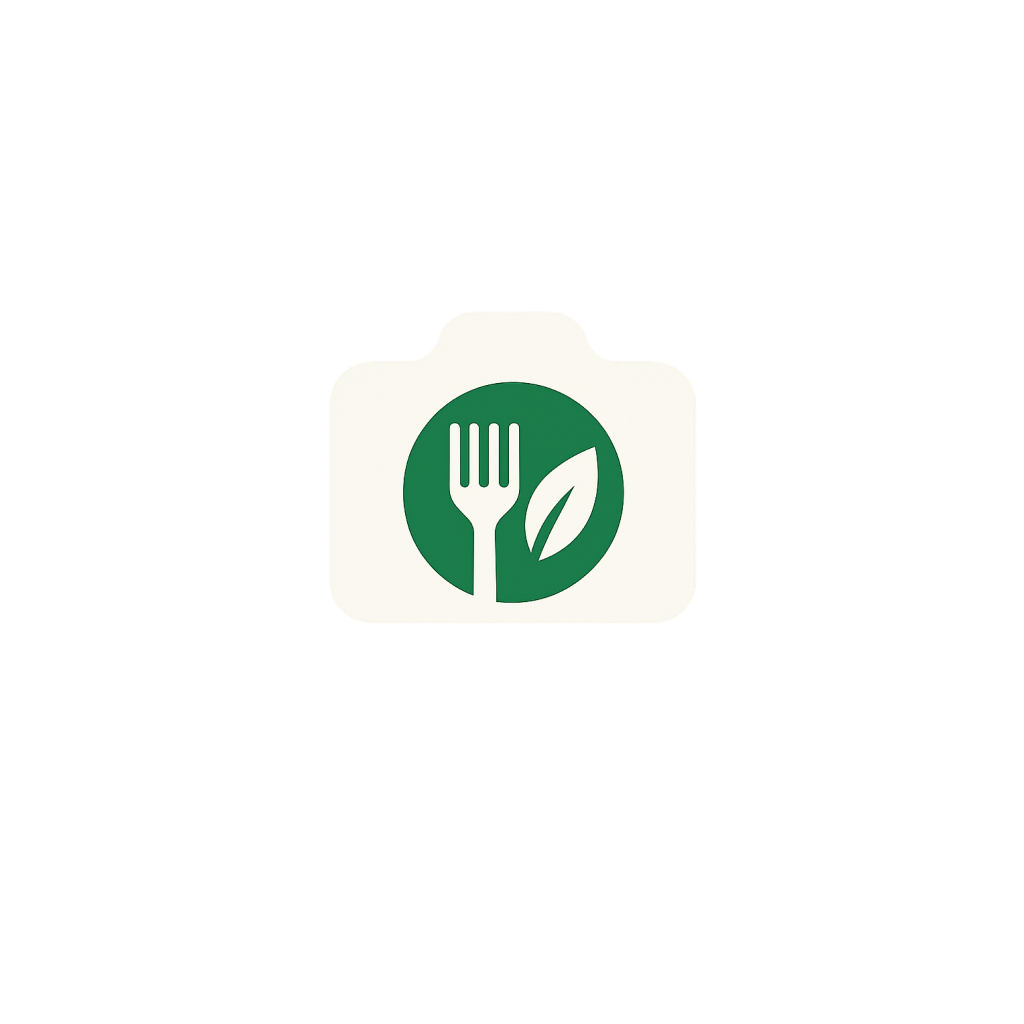
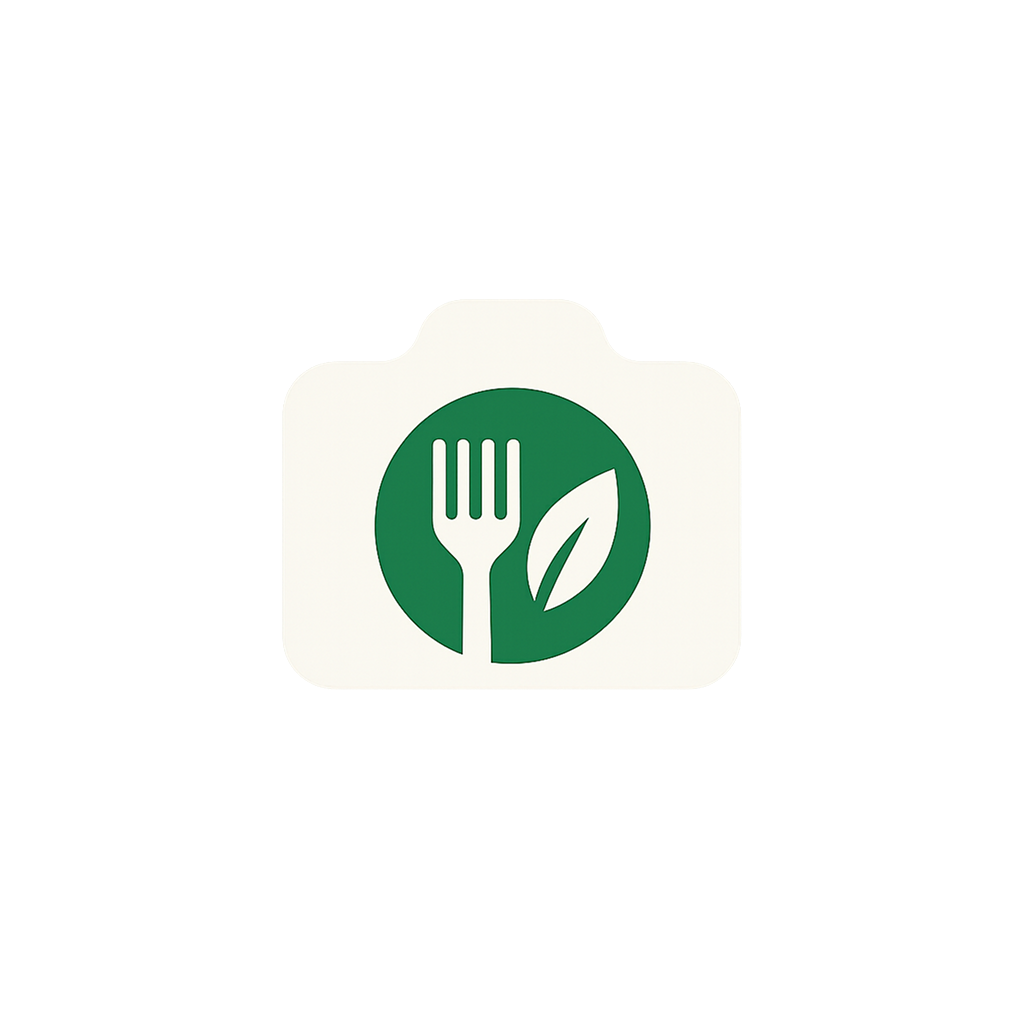
move from mmkv to async storage

Changed region(s): [[0.3438, 0.375, 0.6562, 0.6562]]

diff --git a/utils/storage.ts b/utils/storage.ts
@@ -1,67 +1,78 @@
 /**
- * Storage Service using MMKV
+ * Storage Service using AsyncStorage
  * Handles local storage for app usage tracking and scan history
  */
 
-import { Platform } from "react-native";
-import { MMKV } from "react-native-mmkv";
+import AsyncStorage from "@react-native-async-storage/async-storage";
 
-// Provide a simple in-memory fallback that mimics the MMKV interface
-class MemoryStorage {
-  private store = new Map<string, string | number | boolean>();
+// Storage wrapper to provide synchronous-like interface with AsyncStorage
+class StorageWrapper {
+  private cache = new Map<string, string | number | boolean>();
+  private initialized = false;
+
+  async init() {
+    if (this.initialized) return;
+    try {
+      const keys = await AsyncStorage.getAllKeys();
+      const items = await AsyncStorage.multiGet(keys);
+      items.forEach(([key, value]) => {
+        if (value !== null) {
+          try {
+            const parsed = JSON.parse(value);
+            this.cache.set(key, parsed);
+          } catch {
+            this.cache.set(key, value);
+          }
+        }
+      });
+      this.initialized = true;
+    } catch (error) {
+      console.error("❌ Error initializing AsyncStorage:", error);
+    }
+  }
 
   set(key: string, value: string | number | boolean) {
-    this.store.set(key, value);
+    this.cache.set(key, value);
+    AsyncStorage.setItem(key, JSON.stringify(value)).catch((error) => {
+      console.error(`Error saving ${key}:`, error);
+    });
   }
-  getString(key: string) {
-    const v = this.store.get(key);
+
+  getString(key: string): string | undefined {
+    const v = this.cache.get(key);
     return typeof v === "string" ? v : undefined;
   }
-  getNumber(key: string) {
-    const v = this.store.get(key);
+
+  getNumber(key: string): number | undefined {
+    const v = this.cache.get(key);
     return typeof v === "number" ? v : undefined;
   }
-  getBoolean(key: string) {
-    const v = this.store.get(key);
+
+  getBoolean(key: string): boolean | undefined {
+    const v = this.cache.get(key);
     return typeof v === "boolean" ? v : undefined;
   }
+
   delete(key: string) {
-    this.store.delete(key);
+    this.cache.delete(key);
+    AsyncStorage.removeItem(key).catch((error) => {
+      console.error(`Error deleting ${key}:`, error);
+    });
   }
+
   clearAll() {
-    this.store.clear();
+    this.cache.clear();
+    AsyncStorage.clear().catch((error) => {
+      console.error("Error clearing storage:", error);
+    });
   }
 }
 
-// Initialize storage with safe fallback for web/old-arch/dev-client-mismatch
-export const storage = (() => {
-  // MMKV is not supported on web; also guard for environments without TurboModules
-  if (Platform.OS === "web") {
-    return new MemoryStorage();
-  }
-  try {
-    const mmkvInstance = new MMKV({
-      id: "foodlens-storage",
-      encryptionKey: "foodlens-secure-key-2024",
-    });
+// Initialize storage
+export const storage = new StorageWrapper();
 
-    // Test MMKV to verify it's working
-    console.log("🔥 MMKV Storage Initialized Successfully!");
-    mmkvInstance.set("mmkv_test_key", "MMKV is working!");
-    const testValue = mmkvInstance.getString("mmkv_test_key");
-    console.log("✅ MMKV Test Read:", testValue);
-    mmkvInstance.delete("mmkv_test_key");
-    console.log("🗑️ MMKV Test Cleanup Complete");
-
-    return mmkvInstance;
-  } catch (e) {
-    console.warn(
-      "MMKV unavailable, falling back to in-memory storage. Cause:",
-      e
-    );
-    return new MemoryStorage();
-  }
-})();
+// Initialize the storage on module load
+storage.init();
 
 // Storage Keys
 const KEYS = {

diff --git a/components/WelcomeScreen.tsx b/components/WelcomeScreen.tsx
@@ -22,12 +22,11 @@ export default function WelcomeScreen({ onGetStarted }: WelcomeScreenProps) {
           {/* Logo and Title Section */}
           <View className="items-center mt-12">
             {/* Official Logo */}
-            <View className="mb-8">
+            <View className="mb-8 bg-primary rounded-full">
               <Image
                 source={require("../assets/images/icon.png")}
-                style={{ width: 128, height: 128 }}
+                style={{ width: 130, height: 130 }}
                 resizeMode="contain"
-                className="rounded-full"
               />
             </View>
 

diff --git a/README.md b/README.md
@@ -110,7 +110,7 @@ Choose one of three methods:
 - **Styling:** TailwindCSS (NativeWind)
 - **AI:** Google Gemini AI
 - **Navigation:** Expo Router
-- **Storage:** React Native MMKV
+- **Storage:** AsyncStorage
 - **Image Handling:** Expo Image Picker & Camera
 
 ---